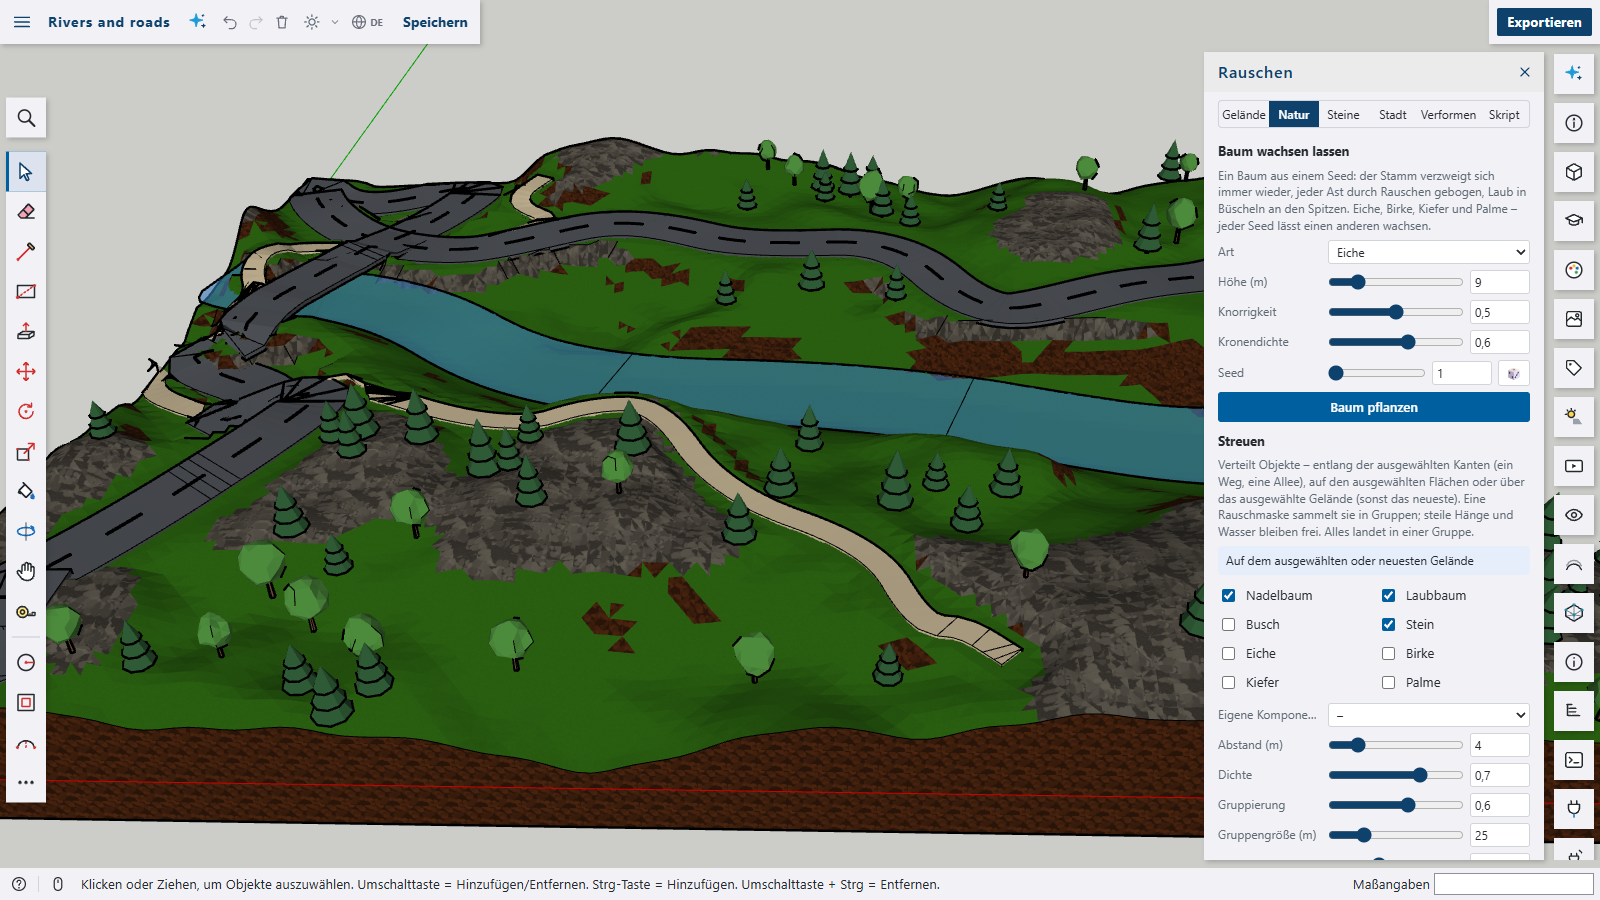
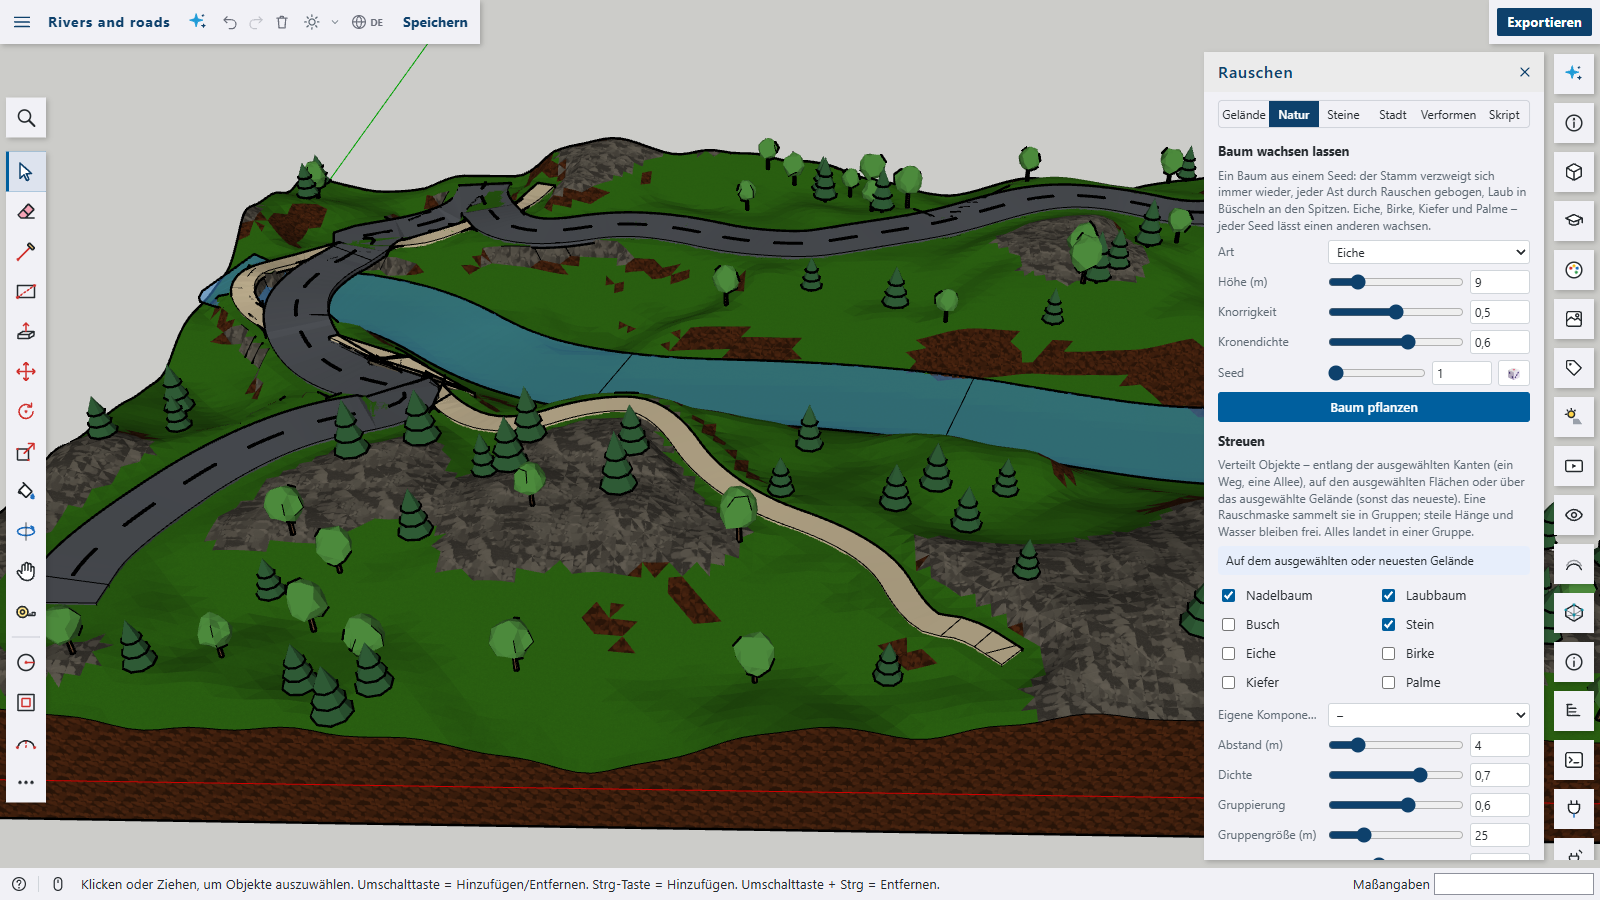
Noise: survive another terrain grid version, connect roads to city streets, clean hairpins

diff --git a/plugins/noise/src/actions.ts b/plugins/noise/src/actions.ts
@@ -8,6 +8,7 @@ import {
   wallPlane,
   CITY_DEFAULTS,
   planCity,
+  cityStreetLines,
   type CityOptions,
   FLAT_GROUND,
   terrainGround,
@@ -42,6 +43,8 @@ import {
   type Point2,
   onCourse,
   type Course,
+  type RoadCourse,
+  resample,
   type RiverOptions,
   type RoadOptions,
   type RoadSurface,
@@ -860,7 +863,17 @@ export const city = (api: ScriptApi, call: CityCall = {}): GroupHandle => {
       offset[0] + options.width + 1,
       offset[1] + options.depth + 1,
     ];
-    remember(terrain, (data) => ({ ...data, cities: [...(data.cities ?? []), area] }));
+    // its streets as roads: a road built later goes on from a street's end at the city's edge, or crosses it
+    const streets = cityStreetLines(options).map((ends): RoadCourse => {
+      const line = resample(ends, 2).map(([x, y]): [number, number] => [x + offset[0], y + offset[1]]);
+      return {
+        line,
+        levels: line.map(([x, y]) => Math.round(land.streetAt(x - offset[0], y - offset[1]) * 1000) / 1000),
+        half: options.street / 2,
+        reach: options.street / 2,
+      };
+    });
+    remember(terrain, (data) => ({ ...data, cities: [...(data.cities ?? []), area], roads: [...(data.roads ?? []), ...streets] }));
   }
   const blockAt = (x: number, y: number) =>
     blocks.findIndex((block) => x >= block.x && x <= block.x + block.width && y >= block.y && y <= block.y + block.depth);

diff --git a/plugins/noise/src/index.ts b/plugins/noise/src/index.ts
@@ -54,7 +54,14 @@ const plugin: S3dPlugin = {
   activate(context) {
     useRuntime(context);
     // the terrain plugin's height grid – declared here too, so this plugin works without that one running
-    context.data.formats.register({ ...TERRAIN_FORMAT, validate: (value) => !!gridFrom(value) });
+    try {
+      context.data.formats.register({ ...TERRAIN_FORMAT, validate: (value) => !!gridFrom(value) });
+    } catch (error) {
+      // the terrain plugin declares another version of the grid: the plugin still starts – grids of the other version
+      // are not read (the check fails) and nothing is written into them (the app refuses data of the wrong shape)
+      console.warn(error);
+      context.ui.toast(t('noise.errors.gridVersion', { version: context.data.formats.get(TERRAIN_FORMAT.id)?.version ?? '?' }));
+    }
     // sculpting a terrain with steps becomes a step of its own right away (in the same undo step as the sculpting)
     context.events.onDataChange(({ key, target }) => {
       if (key === TERRAIN_FORMAT.key && target && !('definition' in target) && !ownGridWrite(target)) {

diff --git a/plugins/noise/docs/demo-cityroads.js b/plugins/noise/docs/demo-cityroads.js
@@ -1,0 +1,10 @@
+// Demo for roads meeting a city (npm run screenshots): a city on a gentle terrain, a road that goes on from the end of
+// its street at the front edge, a road along the back and a short one linking the street's back end to it.
+s3d.clear();
+s3d.editor.model.name = 'Roads into town';
+const land = s3d.noiseTerrain({ width: 160, depth: 120, detail: 100, height: 8, scale: 90, octaves: 3, seed: 4, name: 'Plain' });
+s3d.city({ on: land, width: 70, depth: 50, block: 22, street: 8, minFloors: 2, maxFloors: 6, seed: 2 });
+s3d.road({ target: land, from: [60, 4, 0], to: [80, 35, 0], width: 7 });
+s3d.road({ target: land, from: [5, 95, 0], to: [155, 95, 0], width: 6 });
+s3d.road({ target: land, from: [80, 85, 0], to: [80, 95, 0], width: 7 });
+s3d.editor.select([]);

diff --git a/plugins/noise/README.md b/plugins/noise/README.md
@@ -14,6 +14,8 @@ Procedural generation from seeded noise – simplex noise (the improved successo
 
 ![Junctions: a main road with a T-junction, a gravel path crossing it and a road going on from its end, the corners rounded off](docs/noise-junctions.png)
 
+![Roads meeting a city: one goes on from the end of the city's street at its front edge, another links the street's back end to a road along the back](docs/noise-cityroads.png)
+
 ![Erosion: the same mountains twice – as the noise made them and eroded by raindrops, with sediment in the valleys and pines](docs/noise-erosion.png)
 
 ![Scatter: an avenue of conifers along a winding path on both sides, and a meadow with clumps of trees, bushes and rocks](docs/noise-scatter.png)
@@ -39,7 +41,7 @@ The plugin is a package of its own with its own `package.json` and is **not** pa
   - A **live preview** in the 3D view; _Create terrain_ adds it as one undo step. Grass, earth, rock and snow follow height and slope like in the built-in terrain plugin.
   - The terrain keeps its settings: select it and the panel shows them – _Apply changes_ rebuilds it in place (the preview shows the new version first), _As new terrain_ adds another one.
 - **Rivers** (tab _Nature_, `s3d.river`): the cheapest way through the valleys of a terrain – from high on its border to the lowest spot of it, or between two points – meandering by noise. The bed is dug into the terrain's height grid so that it only falls downstream, gets wider towards the mouth and has gently sloping banks; a water ribbon fills it. Width, depth, meanders, seed.
-- **Roads and paths** (tab _Nature_, `s3d.road`): between two points the road finds the gentlest way below the steepest grade you allow – searched with steps a little longer than the road is wide, so no bend gets tighter than it can take, then rounded into wide curves. Along several selected edges (or `along` points) it follows them; one selected edge: it finds its way between the edge's ends. The terrain is cut and filled to an evenly graded bed with banks; deeper hollows are bridged by the road deck, rivers always (1.2 m above the water, ramps up to it), and found routes keep away from rivers and cross them briefly. Where a road meets a road built before, they make a junction: a road running into another one ends at its edge – the end cut along that edge, its height ramped to the other road's and tilted with it on a slope – one crossing another is split into a piece on each side, and one starting or ending at another road's end goes on from it, leaving it straight before it bends; the corners are rounded off, the centre line stops short of the junction. Asphalt (with a dashed centre line) or a gravel path; width, steepest grade.
+- **Roads and paths** (tab _Nature_, `s3d.road`): between two points the road finds the gentlest way below the steepest grade you allow – searched with steps a little longer than the road is wide, so no bend gets tighter than it can take, then rounded into wide curves. Along several selected edges (or `along` points) it follows them; one selected edge: it finds its way between the edge's ends. The terrain is cut and filled to an evenly graded bed with banks; deeper hollows are bridged by the road deck, rivers always (1.2 m above the water, ramps up to it), and found routes keep away from rivers and cross them briefly. Where a road meets a road built before, they make a junction: a road running into another one ends at its edge – the end cut along that edge, its height ramped to the other road's and tilted with it on a slope – one crossing another is split into a piece on each side, and one starting or ending at another road's end goes on from it, leaving it straight before it bends; the corners are rounded off, the centre line stops short of the junction. A road to or from another road's end comes in straight – its way is searched to a point a little out along that road. A city's streets count as roads: a road built later goes on from a street's end at the city's edge or crosses it. Found routes keep off the terrain's border, and in a bend tighter than the road is wide (a hairpin) the inner edge turns around one point instead of folding over. Asphalt (with a dashed centre line) or a gravel path; width, steepest grade.
 - **Building steps** (tab _Terrain_ with a terrain selected, `s3d.terrainSteps`, `s3d.editTerrainStep`, `s3d.rebuildTerrain`): everything built on a terrain – erosion, rivers, roads, a city, villages, scattering – is kept as a step of its recipe, with its options in the terrain's own coordinates. Switch a step off, give it another seed or remove it, and the terrain is built again: the heights from the start (a noise terrain's settings, or the heights a Terrain-tool terrain had before its first step), everything the steps made removed, then every step that is on, in order – one undo step. Changing a noise terrain's settings (_Apply changes_) builds its steps again on the new heights instead of losing them. Sculpting with the Terrain tool becomes a step of its own (_Sculpted_) as soon as it is applied – in the same undo step – so building again keeps it. The height grid is read and written through the app's data format `terrain.grid`, so this works without the terrain plugin running. A step that no longer fits (no place left for the villages) is skipped and named.
 - **Erosion**: raindrops run downhill, dig gullies where they speed up and drop their sediment where they slow down; a thermal pass lets too steep slopes slide. A slider in the terrain tab (drops per grid point and strength, shown in the preview and kept with the settings), `s3d.erode()` and the context menu _Erode terrain_ for any terrain – also ones from the Terrain tool.
 - **Works with the Terrain tool**: a noise terrain stores its height grid in the format of the built-in terrain plugin (`pluginData.terrain`), so _Terrain_ (sandbox) opens it and sculpts it by hand. Changing it in the Noise panel again starts from the noise settings (hand sculpting is lost then).
@@ -106,7 +108,7 @@ npm run build
 
 Then in Shap3D.ai: _Plugins › Load plugin folder…_ and pick the folder `plugins/noise/dist`. The panel _Noise_ opens from the tile in the right-hand bar or the command palette (_Noise terrain…_).
 
-**Screenshots**: `npm run screenshots` renders `docs/noise.png`, `docs/noise-scatter.png`, `docs/noise-stones.png`, `docs/noise-trees.png`, `docs/noise-villages.png`, `docs/noise-routes.png`, `docs/noise-junctions.png`, `docs/noise-erosion.png`, `docs/noise-facade.png`, `docs/noise-city.png`, `docs/noise-hillcity.png` and `docs/noise-deform.png` from the demos in `docs/` ([`docs/screenshots.mjs`](docs/screenshots.mjs) – Windows and Linux/macOS) with the dev server running; `--url` picks another dev server, `--only stones` one picture.
+**Screenshots**: `npm run screenshots` renders `docs/noise.png`, `docs/noise-scatter.png`, `docs/noise-stones.png`, `docs/noise-trees.png`, `docs/noise-villages.png`, `docs/noise-routes.png`, `docs/noise-junctions.png`, `docs/noise-cityroads.png`, `docs/noise-erosion.png`, `docs/noise-facade.png`, `docs/noise-city.png`, `docs/noise-hillcity.png` and `docs/noise-deform.png` from the demos in `docs/` ([`docs/screenshots.mjs`](docs/screenshots.mjs) – Windows and Linux/macOS) with the dev server running; `--url` picks another dev server, `--only stones` one picture.
 
 ## Structure
 

diff --git a/plugins/noise/CHANGELOG.md b/plugins/noise/CHANGELOG.md
@@ -8,7 +8,7 @@
 - Seeded simplex noise in 2D and 3D with fBm, ridged multifractal and billow, domain warping and terraces.
 - Noise terrains with a live preview: size, detail, seed, scale, height, octaves, persistence, lacunarity, valleys ↔ peaks, warp, island falloff, terraces, water and snow; five presets (hills, mountains, island, canyon, dunes). They keep their settings (select one to change it in place) and their height grid in the built-in terrain plugin's format, so the Terrain tool sculpts them further.
 - Trees grown from seeds: oak, birch, pine and palm – branching trunks bent by noise, leaf clusters, whorls and fronds; height, gnarl and crown density; also as kinds to scatter.
-- Rivers dug through a terrain's valleys (meandering, a bed that only falls, wider downstream, banks, water) and roads or gravel paths that find the gentlest way below a steepest grade – cut and filled into the terrain, wide bends, bridges over rivers and deep hollows, a dashed centre line; along selected edges too. Roads meet the roads built before in junctions: T-junctions ending at the other road's edge, crossings split into two pieces, roads going on from another road's end, corners rounded off, heights matched. In the tab _Nature_ and as `s3d.river()` / `s3d.road()`.
+- Rivers dug through a terrain's valleys (meandering, a bed that only falls, wider downstream, banks, water) and roads or gravel paths that find the gentlest way below a steepest grade – cut and filled into the terrain, wide bends, bridges over rivers and deep hollows, a dashed centre line; along selected edges too. Roads meet the roads built before in junctions: T-junctions ending at the other road's edge, crossings split into two pieces, roads going on from another road's end, corners rounded off, heights matched; a road to or from another road's end comes in straight; a city's streets count as roads, so later roads go on from their ends or cross them. Found routes keep off the terrain's border, and hairpins tighter than the road is wide turn around one point on the inside instead of folding over. In the tab _Nature_ and as `s3d.river()` / `s3d.road()`.
 - Villages on a terrain (`s3d.villages()`, tab _City_): on gentle sites, a main street along the contour through the centre with side streets branching off it, houses in rows beside them on plinths with gable or hip roofs, connected by roads that find the gentlest way around the other villages.
 - Scattering on a terrain leaves the cities, villages, rivers and roads built on it free.
 - Hydraulic erosion (raindrops dig gullies and fill valleys, a thermal pass for steep slopes) – as a terrain setting with preview, as `s3d.erode()` and in the context menu for any terrain.
@@ -17,6 +17,7 @@
 - Stones from cellular (Voronoi) noise: flagstones, cobbles, slabs and dry walls as real stones with joints, chamfered tops, varied heights and shades and optional mortar – on selected faces (floors and walls) or an area; presets and a tab of their own.
 - Facades: windows with frames and sills, shutters, stacked balconies, cornices and a ground floor with shop windows and a door, on selected wall faces or all walls of a group, varied per window by the seed.
 - Cities: streets, pavements, blocks split into plots and a building on each whose height follows a noise density map (high centre, low edges), with setbacks and roof boxes, gable and hip roofs on low buildings, perimeter blocks round courtyards, parks, street trees and road markings (centre lines, zebra crossings); on a selected terrain (`s3d.city({ on })`) as a hill town – eased slopes, every block a level terrace on retaining walls, streets following the ground; a tab _City_ for facades and cities.
+- When the Terrain plugin keeps its height grid in another version of the format, the plugin still starts and says so – terrains of that version are neither read nor changed.
 - Deforming groups: refined without cracks, twisted, tapered and bent along their height and roughened by 3D noise (moved along the normals); terrains get the noise on their height grid.
 - Three material shaders: _Noise_ (two colours mixed by fractal noise), _Cells_ (a Voronoi pattern with joints and a shade per cell) and _Facade_ (windows in a grid of storeys, lit or dark, with a shop floor).
 - Script functions `s3d.noise`, `s3d.fbm`, `s3d.cellNoise`, `s3d.noiseTerrain`, `s3d.scatter`, `s3d.tree`, `s3d.erode`, `s3d.river`, `s3d.road`, `s3d.villages`, `s3d.paving`, `s3d.facade`, `s3d.city` and `s3d.noiseDeform`, an example for the script editor, commands per tab and context menu entries.
